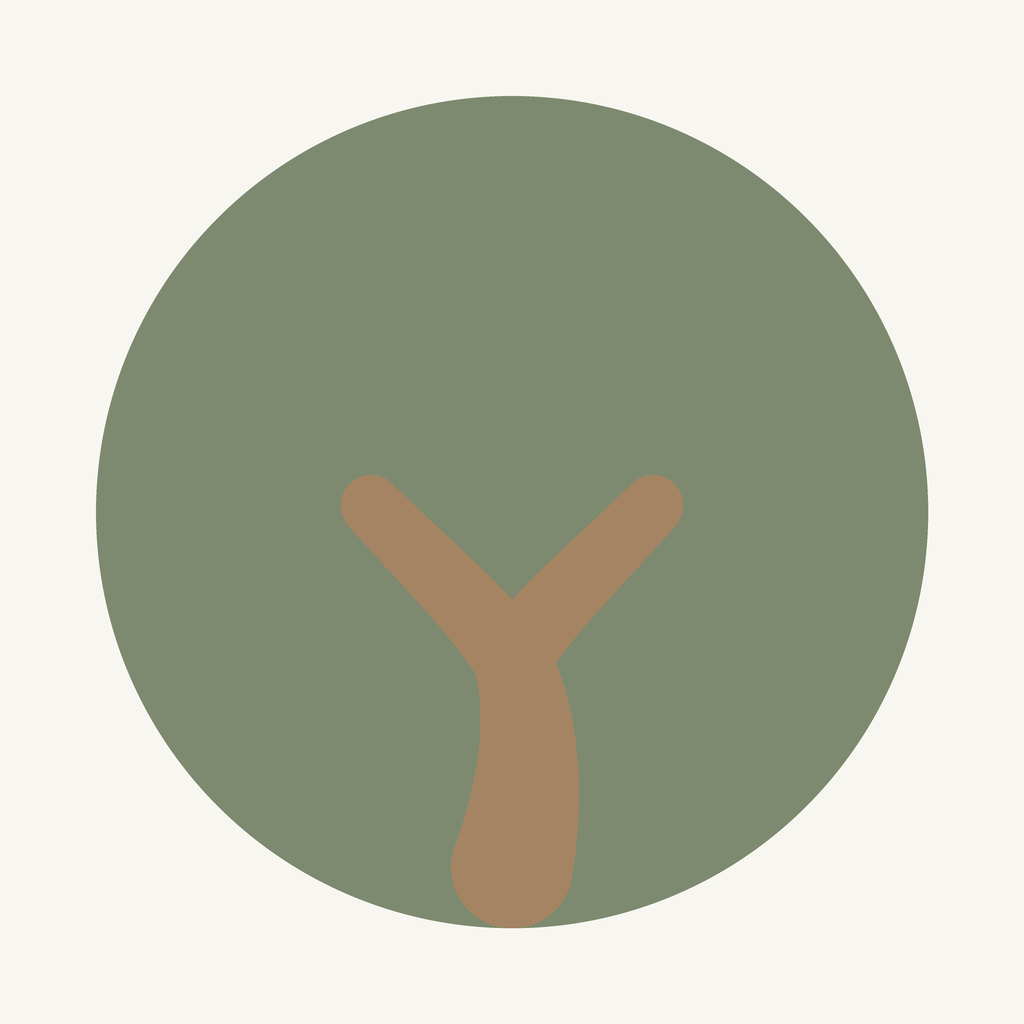
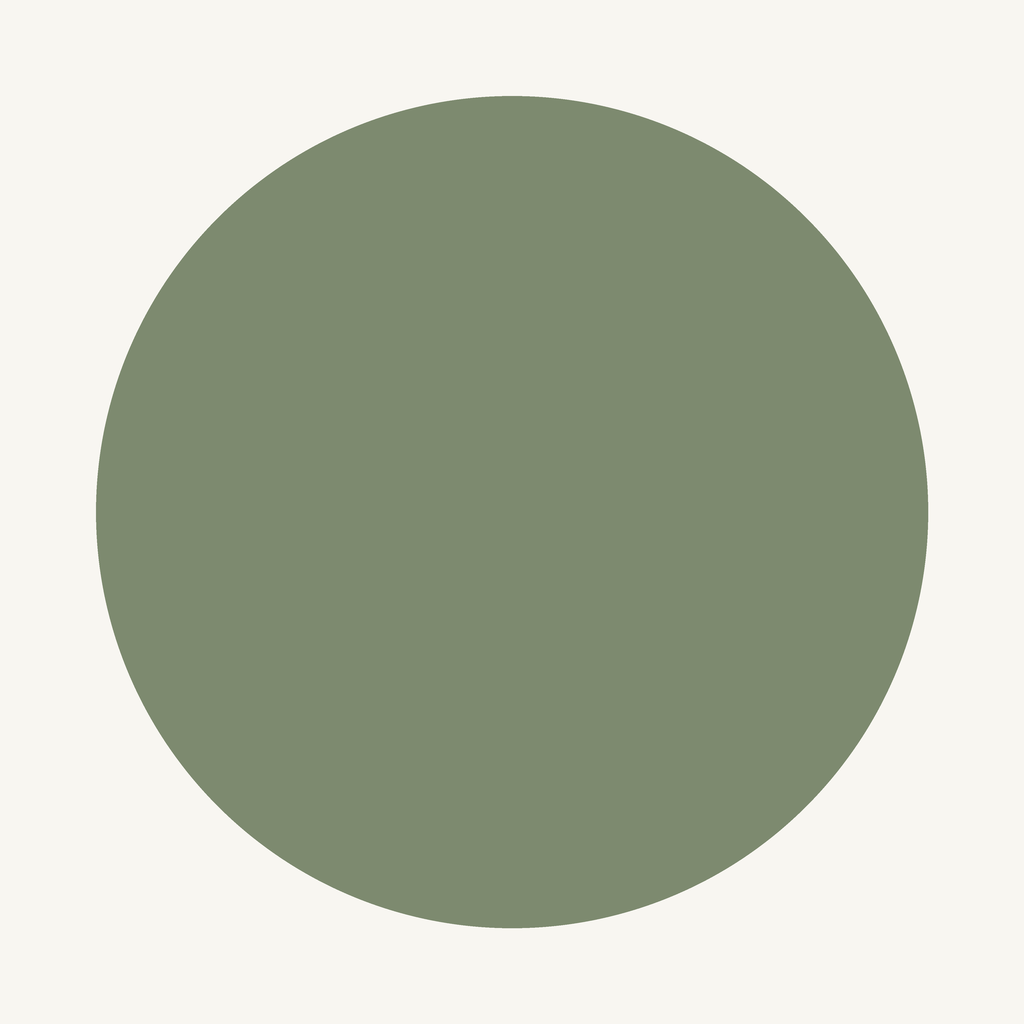
移动端图标调整

Changed region(s): [[0.3125, 0.4375, 0.6875, 0.9062]]

diff --git a/themes/yawningtree/layouts/partials/head.html b/themes/yawningtree/layouts/partials/head.html
@@ -3,7 +3,7 @@
 <title>{{ if .IsHome }}{{ .Site.Title }}{{ else }}{{ $t := .Title }}{{ if and (eq .Section "notes") (not $t) }}{{ $t = .Date.Format "2006-01-02" }}{{ end }}{{ with $t }}{{ . }} · {{ end }}{{ .Site.Title }}{{ end }}</title>
 <meta name="description" content="{{ with .Description }}{{ . }}{{ else }}{{ .Site.Params.description }}{{ end }}">
 <link rel="icon" href="{{ "favicon.svg?v=3" | absURL }}" type="image/svg+xml">
-<link rel="apple-touch-icon" sizes="1024x1024" href="{{ "apple-touch-icon-1024.png?v=1" | absURL }}">
+<link rel="apple-touch-icon" sizes="1024x1024" href="{{ "apple-touch-icon-1024.png?v=2" | absURL }}">
 {{ with .OutputFormats.Get "rss" -}}
   {{ printf `<link rel="%s" type="%s" href="%s" title="%s">` .Rel .MediaType.Type .Permalink $.Site.Title | safeHTML }}
 {{ end -}}
